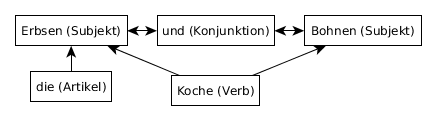
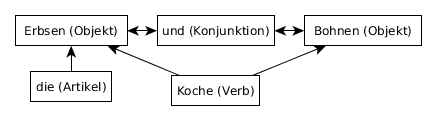
Feedback stefan part 2

Changed region(s): [[0.0297, 0.1983, 0.2975, 0.3223], [0.714, 0.1983, 0.9519, 0.3223]]

diff --git a/docs/Kommentare.html b/docs/Kommentare.html
@@ -57,7 +57,7 @@
                     <p>Nährwertangaben machen nur Sinn, wenn sie auf ein <b>Vergleichbares Maß</b> wie <i>pro Person</i> umgerechnet werden können. Ein Nudelsalat für 12 Personen wird insgesamt  mehr Kalorien haben, als ein fettiges 200g Steak. Bei Frau Davidis' Rezepten fehlt jedoch oft jegliche Angaben zu der angestrebten Portionen-Menge. Dementsprechend müsste diese geraten werden, was die Nährwertanalyse ungenau macht.
                     </p>
                     
-                    <p>Gleiches gilt für die einzelnen Mengenangaben der Zutaten. Zu einem müssen vage Mengenangabe wie <i>ein Stich Butter</i> interpretiert werden. Meine Oma versteht z.&thinsp;B. sicherlich mehr als die fünffache Menge Butter darunter als meine Freundin. Dies führt zu weitere Ungenauigkeiten bei der Nährwertanalyse. Zum anderen müssen historische Mengeneinheiten wie <i>ein Maß</i> oder <i>für 8 Pfennig Weißbrot</i> in heute übliche Einheiten umgerechnet werden, damit sie vergleichbar werden. Dafür ist historische Recherche nötig. Auch für manche Zutaten wie <i>ganzes Gewürz</i> sind weitere Recherchen nötig, was damit gemeint ist.
+                    <p>Gleiches gilt für die einzelnen Mengenangaben der Zutaten. Zu einem müssen vage Mengenangabe wie <i>ein Stich Butter</i> interpretiert werden. Meine Oma versteht z.&thinsp;B. sicherlich mehr als die fünffache Menge Butter darunter als meine Freundin. Dies führt zu weiteren Ungenauigkeiten bei der Nährwertanalyse. Zum anderen müssen historische Mengeneinheiten wie <i>ein Maß</i> oder <i>für 8 Pfennig Weißbrot</i> in heute übliche Einheiten umgerechnet werden, damit sie vergleichbar werden. Dafür ist historische Recherche nötig. Auch für manche Zutaten wie <i>ganzes Gewürz</i> sind weitere Recherchen nötig, was damit gemeint ist.
                     </p>
                     
                     <p>Weitere Schwierigkeiten bereitet die <b>schlechte Struktur von Frau Davidis' Kochbuch</b>. Manche Informationen sind in anderen Rezepten versteckt. Im Rezept <i>Rindfleischsuppe mit Perlgerste und Reis</i> steht z.&thinsp;B. <i>„Anmerk. Will man Reis oder Sago zur Suppe nehmen, so gibt man dieses später hinein. Man rechnet davon auf jede Person bei allen Fleischsuppen einen gestrichenen Eßlöffel voll“</i> <span cite="DavidisKochbuch" supplement=", S. 29" class="beforePunctuation"></span>. Zu allen Fleischsuppen gehört also als optionale Zutat pro Person ein Eßlöffel Reis oder Sago, was man nur wissen kann, wenn man dieses Rezept gelesen hat.
@@ -73,7 +73,7 @@
                         </li>
                         <li>Wie die Nährwertangaben einzelner Zutaten berechnet wird, ist im BLS bereits nicht transparent. Nach dem BLS haben z.&thinsp;B. <i>Nichtalkoholische Getränke</i> 47kcal/100g, 198kJ/100g, ... Da frage ich mich, wieso manche Leute aus Diät-Gründen auf Cola verzichten, wenn Wasser wie Cola als nicht alkoholisches Getränk doch die gleichen Nährwertangaben hat. Als anderes Beispiel steht in einer <a href="https://www.blsdb.de/assets/uploads/Kundeninformation_BLS_3.02_Stand_16-09-2016.pdf" title="Abgerufen 2017-02-22">Liste über derzeit bekannte Diskrepanzen in BLS - Version 3.02</a>: <i>„Der Fettgehalt von U661100 „Schwein Schulter (Bug) (ma) roh“ hat sich von Version II.3 zu 3.02 fast verdoppelt. Ursache: Bereits im Zuge des Updates für Version 3.0 wurde gegenüber Version II.3 ein aktuellerer Analysenwert übernommen. WICHTIG: Dabei handelt es sich nicht um einen Fehler.“</i> Daraus ergibt sich für mich keinerlei Transparenz, wie der BLS die Daten berechnet. Noch wirkt das auf mich sehr vertrauenerweckend, wenn eine Angabe, die um fast 100% korrigiert wurde, vorher nicht als falsch angesehen wird.
                         </li>
-                        <li>Ein Mapping Zwischen einer Zutat und dem BLS ist gar nicht so einfach, wie man denken mag. Zu <i>Hauskaninchen</i> hat der BLS z.&thinsp;B. 17 Einträge (Hauskaninchen gegart, Hauskaninchen roh, Hauskaninchen gekocht, ...). Dies ist ein allgemeines Problem, dass es nicht die perfekte Muster-Zutat gibt. Streng genommen hat auch jedes individuelles Hauskaninchen (roh, gekocht, ...) individuelle Nährwertangaben. Eine Verallgemeinerung erhöht jedoch die Übersichtlichkeit und somit auch die Nutzbarkeit.
+                        <li>Ein Mapping Zwischen einer Zutat und dem BLS ist gar nicht so einfach, wie man denken mag. Zu <i>Hauskaninchen</i> hat der BLS z.&thinsp;B. 17 Einträge (Hauskaninchen gegart, Hauskaninchen roh, Hauskaninchen gekocht, ...). Dies ist ein allgemeines Problem, dass es nicht die perfekte Muster-Zutat gibt. Streng genommen hat auch jedes individuelles Hauskaninchen (roh, gekocht, ...) individuelle Nährwertangaben. Eine kulinarische Analyse basierend auf Nährwertangaben kann im Allgemeinen nicht exakt sein, da selbst zwei benachtbart gewachsene Möhren aus dem selben Feld unterschiedliche Nährwertangaben haben. Eine Verallgemeinerung erhöht die Übersichtlichkeit und somit auch die Nutzbarkeit und Vergleichbarkeit.
                         </li>
                         <li>Die Struktur des BLS-Schlüssels lässt eine Taxonomy erahnen. Allerdings ist diese nicht konsequent eingehalten und auch nicht dokumentiert.
                         </li>
@@ -109,7 +109,7 @@
                     <p>Wie diese Arbeit zeigt, kann eine Abschluss-Arbeit auch als Webseite dargeboten werden. Abbildungen profitieren vom dem potenziell größeren Bildschirm als das feste A-4 Format. Auch sind interaktive Grafiken möglich. Des Weiteren können Webseiten zu Hause am PC, auf der Couch am Tablet oder unterwegs am Handy gelesen werden. Links auf einer Webseite zu folgen ist angenehmer, als sie über ein gedrucktes Literaturverzeichnis manuell aufzufinden. Über die URL ist die Arbeit leicht verteilbar und durch das Word Wide Web frei zugänglich und auffindbar. Durch eine schicke Webseite kann ein Thema auch (teilweise) dem Laien zugänglich gemacht werden.
                     </p>
                     
-                    <p>Ein weiterer Vorteil bietet die Integration eines Blogs in die Webseite. Seine Gedanken niederzuschreiben ist immer sinnvoll. Dies hilft die Gedanken zu ordnen und früh zu merken, wo sie noch nicht stimmen. Der Blog bietet auch eine gute Plattform zum Austausch von Informationen. Der betreuende Professor ist nach dem Lesen stets im Bilde, was der Student erarbeitet hat. Unter die Blog-Einträge kann er dann ggf. sofort Feedback geben. So ist ein aneinander vorbeireden quasi unmöglich. Über den Blog können auch andere Wissenschaftler Feedback geben und ihre Erkenntnisse teilen. 
+                    <p>Ein weiterer Vorteil bietet die Integration eines Blogs in die Webseite. Seine Gedanken niederzuschreiben ist immer sinnvoll. Dies hilft die Gedanken zu ordnen und früh zu merken, wo sie noch nicht stimmen. Der Blog bietet auch eine gute Plattform zum Austausch von Informationen. Der betreuende Professor ist nach dem Lesen stets im Bilde, was der Student erarbeitet hat. Unter die Blog-Einträge kann er dann ggf. sofort Feedback geben. So ist ein aneinander vorbeireden unwahrscheinlich und die stattgefundene Kommunikation ist später noch nachvollziehbar. Über den Blog können auch andere Wissenschaftler Feedback geben und ihre Erkenntnisse teilen. 
                     </p>
                     
                     <p>Meiner Meinung nach hätten mich also bereits 2014 alle fragen sollen <b>wieso schreibst du keine <i>Webseite</i> für deine Abschluss-Arbeit?</b> Unten stehend noch eine schöne Karikatur von einer schicken, aufgeräumten und vernetzten Webseite vs. einer verstauben, gebundenen Abschluss-Arbeit.
@@ -153,7 +153,7 @@
                     <p>Ein sehr aktuelles Beispiel ist die Diskussion, in wie weit <i>Fake News</i> öffentliche Meinungen und Wahlen beeinflussen (<a href="https://www.nytimes.com/2016/11/18/technology/fake-news-on-facebook-in-foreign-elections-thats-not-new.html?_r=1" title="Abgerufen 2017-02-19">s. z.&thinsp;B. hier</a>). Ich persönlich denke, dass die Methodik der bewusst falschen Informationen zum eigenen Vorteil kein neues Phänomen ist. Ich behaupte, dass es bereits seit dem Bestehen von Zeitungen Zeitungsenten gibt, um die Verkaufszahlen der Zeitung in die Höhe zu treiben. In den beiden Weltkriegen hat man kritische wie auch ausländische Presse oft als <i>Lügenpresse</i> angeprangert (ein Begriff der traurigerweise aktuell wieder im Umlauf ist). Die Amerikaner sind 2003 in den Irak einmarschiert mit der Begründung, dass der damalige Diktator Saddam Hussein Massen&shy;vernichtungs&shy;waffen besitzt, was sich im Nachhinein als eine Lüge herausgestellt hat. Erst kürzlich wurden die im Baltikum stationierten Bundeswehr&shy;truppen fälschlicherweise einer Vergewaltigung beschuldigt, um die Toleranz ihnen gegenüber zu vermindern (<a href="http://www.spiegel.de/politik/ausland/bundeswehr-fake-news-attacke-gegen-deutsche-soldaten-in-litauen-a-1134925.html" title="Abgerufen 2017-02-16">s. z.&thinsp;B. hier</a>). All dies verdeutlicht die Macht von Informationen / Nachrichten / (falschem) Wissen. Was meiner Meinung nach neu ist, ist dass durch das Internet quasi jeder, anonym und ohne Zeitverzögerung ein großes Publikum erreichen (und auch belügen) kann.
                     </p>
                     
-                    <p>Ein weiteres Beispiel ist die bloße Existenz von Geheimdiensten, deren einziger Zweck es ist, Informationen zu beschaffen. So  war z.&thinsp;B. in den Medien, dass der russische Geheimdienst Material gesammelt hat, um den aktuellen amerikanischen Präsidenten Donald Trump zu erpressen (<a href="https://www.nytimes.com/2017/01/10/us/politics/donald-trump-russia-intelligence.html" titel="Abgerufen 2017-02-19">s. z.&thinsp;B. hier</a>). <i>„Knowledge is power and it can command obedience“</i> lässt grüßen. Seit 2002 bis vielleicht sogar heute, wird auch von den amerikanischen Geheimdiensten das Handy des deutschen Bundeskanzlers abgehört (<a href="http://www.spiegel.de/politik/deutschland/handy-der-kanzlerin-die-wichtigsten-fakten-der-abhoeraffaere-a-930411.html">s. z.&thinsp;B. hier</a>). Nur ein Schelm (wie ich) würde behaupten, dass das etwas mit <i>mangelnden command obedience</i> von dem damaligen Bundeskanzler Gerhard Schröder, den Amerikanern in den Irak-Krieg zu folgen, zu tun haben könnte. 
+                    <p>Ein weiteres Beispiel ist die bloße Existenz von Geheimdiensten, zu deren Hauptaufgabe es gehört, Informationen zu beschaffen. So war z.&thinsp;B. in den Medien, dass der russische Geheimdienst Material gesammelt hat, um den aktuellen amerikanischen Präsidenten Donald Trump zu erpressen (<a href="https://www.nytimes.com/2017/01/10/us/politics/donald-trump-russia-intelligence.html" titel="Abgerufen 2017-02-19">s. z.&thinsp;B. hier</a>). <i>„Knowledge is power and it can command obedience“</i> lässt grüßen. Seit 2002 bis vielleicht sogar heute, wird auch von den amerikanischen Geheimdiensten das Handy des deutschen Bundeskanzlers abgehört (<a href="http://www.spiegel.de/politik/deutschland/handy-der-kanzlerin-die-wichtigsten-fakten-der-abhoeraffaere-a-930411.html">s. z.&thinsp;B. hier</a>). Nur ein Schelm (wie ich) würde behaupten, dass das etwas mit <i>mangelnden command obedience</i> von dem damaligen Bundeskanzler Gerhard Schröder, den Amerikanern in den Irak-Krieg zu folgen, zu tun haben könnte. 
                     </p>
                     
                     <p>In der Koch-Domäne die Macht des Wissens zu diskutieren, mag vielleicht übertrieben sein. Ich bin jedoch der Meinung, dass es nie falsch ist, das Thema zu diskutieren. Daher möchte ich diese kleine Abschweifung mit einem kurzen Gedankenspiel beenden. Dieses soll zeigen, wie selbst Wissen, welches durch unser cueML-Vokabular zugreifbar geworden ist, Macht ausüben könnte. Stellen Sie sich vor, es sind Wahlen und Sie wollen natürlich zukünftig einen gesunden BundeskanzlerIn haben. Nun lesen Sie in der Zeitung, dass jemand den Internet-Verkehr ihres Kandidaten mitgeschnitten hat. Seit zwei Monaten öffnet er verstärkt Rezepte, die diese X Nährstoffe meiden. Wie Ihnen jeder Arzt bestätigen kann, macht es Sinn diese Nährstoffe zu meiden, wenn man Bauchspeicheldrüsenkrebs hat. Der Artikel kommt also zu dem Ergebnis, dass der Kandidat schwer krank ist. Der Kandidat selber weigert sich jedoch aus Prinzip, seine Kranken-Akte wegen einer so lächerlichen Anschuldigung öffentlich zu machen, da damit viele private Informationen verbunden sind. Denken Sie, dass dieses Szenario ihre Wahlentscheidung oder die von anderen beeinflussen würde? Der Gesundheitszustand von Hillary Clinton war auf jeden Fall ein Thema im amerikanischen Wahlkampf 2016, aufgebauscht durch einen kleinen Schwächeanfall von ihr und ihrer Weigerung ihre Kranken-Akte zu veröffentlichen <a href="https://www.washingtonpost.com/news/the-fix/wp/2016/09/11/hillary-clintons-health-just-became-a-real-issue-in-the-presidential-campaign/?utm_term=.51193e9f8e0d" title="Abgerufen 2016-11-02">(s. z.&thinsp;B. hier)</a>.

diff --git a/docs/IEKochDomain.html b/docs/IEKochDomain.html
@@ -73,6 +73,7 @@
                     </div>
                     
                     
+                
                     
                     <h2 id="CRFBased" class="myAnchorWithFixedheader">Conditional Random Field-based</h2>
                     <p>Die New York Times (NYT) betreibt eine eigene <a href="https://cooking.nytimes.com/" title="https://cooking.nytimes.com/">Kochseite</a>. Greene behauptet, dass sie mittels Linear-chain Conditional Random Fields (CRF) in der Lage sind <i>„automatisch den unstrukturierten Text von Rezepten in strukturierte Daten umzuwandeln“</i> <span cite="CRFNYT"></span>. Dies beinhaltet insbesondere das Extrahieren der Zutaten mit ihren Mengenangaben und Einheiten. Da diese Behauptung genau unserer Problemstellung entspricht, stellen wir zunächst die Idee von CRF vor und gehen anschließend auf die Implementierung von Greene ein.
@@ -85,12 +86,12 @@
                     <p>Jetzt stellt sich nur noch die Frage, woher man so ein Orakel bekommt. Folgend erläutern wir die Idee, wie so ein Orakel antrainiert werden kann. Eine detaillierte Einführung ist in <span cite="CRFIntroduction"></span> zu finden. Wir fangen damit an, dass wir dem Orakel eine Reihe von Wort-Vektoren geben und ihm für diese bereits die passenden Antworten von Label-Vektoren mitgeben. Solch eine Menge von Wort- und zugehörenden Label-Vektoren werden auch <i>Trainingsdaten</i> genannt. Fragen wir es nun nach den Labels von einen dieser Wort-Vektoren, könnte es uns einfach den zugehörenden Label-Vektor orakeln.
                     </p>
                     
-                    <p>Spannend ist die Frage, wie es Labels für Wort-Vektoren rät, von denen es die Lösung nicht kennt. Dafür leitet es zunächst aus den Trainingsdaten eine multivariate  Wahrscheinlichkeits&shy;verteilung \( p(X,Y) \) ab, die angibt, wie wahrscheinlich zu einem Wort-Vektor \( X \) ein Label-Vektor \( Y \) gehört. Wenn wir jetzt vereinfacht davon ausgehen, dass jedes Label \( y_i \in Y \) nur vom vorherigen Label \( y_{i-1} \in Y \) und dem entsprechenden Wort \( x_i \in X \) abhängt, ergibt sich Formel (1).
+                    <p>Spannend ist die Frage, wie es Labels für Wort-Vektoren rät, von denen es die Lösung nicht kennt. Dafür leitet es zunächst aus den Trainingsdaten eine multivariate  Wahrscheinlichkeits&shy;verteilung \( p(X,Y) \) ab, die angibt, wie wahrscheinlich zu einem Wort-Vektor \( X \) ein Label-Vektor \( Y \) gehört. Wenn wir jetzt von dem <i>vereinfachtem Modell</i> ausgehen, dass jedes Label \( y_i \in Y \) nur vom vorherigen Label \( y_{i-1} \in Y \) und dem entsprechenden Wort \( x_i \in X \) abhängt, ergibt sich Formel (1).
                     </p>
                     
                     \begin{equation} \boldsymbol{ p(X,Y) = \prod_{t=1}^{\#X} p(y_t|y_{t-1}) * p(y_t|x_t) } \end{equation}
                     
-                    <p>Wahrscheinlichkeiten der Form von (1) können immer in die Form von Formel (2) überführt werden. \( 1_{Bedingung} \) ist dabei eine Funktion, die genau dann Eins ist, wenn die Bedingung erfüllt ist und ansonsten Null. Je öfter \( y_t=i \) und \( y_{t-1}=j \) gemeinsam in der Verteilung vorkommen, desto größer wird \( \Theta_ {i,j} \) sein. Kommen \( y_t=i \) und \( y_{t-1}=j \) gar nicht gemeinsam vor, gilt \( \Theta_{i,j} * 1_{y_t=i} * 1_{y_{t-1}=j} = 0 \). Gleiches gilt für \( y_t=i \), \( x_t=o \) und \( \mu_{i,o} \). Die Thetas werden auch als <i>Gewichte</i> bezeichnet. \( Z \) bildet die Summe der Werte für alle möglichen Vorkommen von \( X \) und \( Y \). Nach der Division durch \( Z \) ist somit sichergestellt, dass Formel (2) zwischen \( 0 \) und \( 1 \) liegt, sowie dass die Summe über alle möglichen Wahrscheinlichkeiten \( 1 \) ist, wie es für eine Wahrscheinlichkeitsverteilung der Fall sein muss. Die Berechnung von \( Z \) ist sehr Ressourcen-intensiv, selbst wenn die maximale Dimension von \( X^* \) und \( Y^* \) beschränkt wird. 
+                    <p>Wahrscheinlichkeiten der Form von (1) können immer in die Form von Formel (2) überführt werden. \( 1_{Bedingung} \) ist dabei eine Funktion, die genau dann Eins ist, wenn die Bedingung erfüllt ist und ansonsten Null. Je öfter \( y_t=i \) und \( y_{t-1}=j \) gemeinsam in der Verteilung vorkommen, desto größer wird \( \Theta_ {i,j} \) sein. Kommen \( y_t=i \) und \( y_{t-1}=j \) gar nicht gemeinsam vor, gilt \( \Theta_{i,j} * 1_{y_t=i} * 1_{y_{t-1}=j} = 0 \). Gleiches gilt für \( y_t=i \), \( x_t=o \) und \( \mu_{i,o} \). Die Thetas werden auch als <i>Gewichte</i> bezeichnet. \( Z \) bildet die Summe der Werte für alle möglichen Vorkommen von \( X \) und \( Y \). Nach der Division durch \( Z \) ist somit sichergestellt, dass Formel (2) zwischen \( 0 \) und \( 1 \) liegt, sowie dass die Summe über alle möglichen Wahrscheinlichkeiten \( 1 \) ist, wie es für eine Wahrscheinlichkeitsverteilung der Fall sein muss. Die Berechnung von \( Z \) ist sehr Ressourcen-intensiv, selbst wenn die maximale Länge von \( X^* \) und \( Y^* \) beschränkt wird. 
                     </p> 
                     
                     \begin{align}
@@ -247,7 +248,7 @@
                         
                         <div class="row">
                             <div class="col-md-6">
-                                <p>Der zweite Ansatz basiert auf <b>dependency-based parsing</b>. Abb. 8 zeigt ein exemplarisches Ergebnis eines dependency-based parsings des Satzes <i>Koche die Erbsen und Bohnen</i>. Aus diesem wird sofort ersichtlich, dass sich das Verb <i>kochen</i> auf die Subjekte <i>Erbsen</i> und <i>Bohnen</i> bezieht. Das dependency-based parsing kann von Bibliotheken wie dem <a href="http://nlp.stanford.edu/software/lex-parser.shtml">Stanford Parser</a> erledigt werden.
+                                <p>Der zweite Ansatz basiert auf <b>dependency-based parsing</b>. Abb. 8 zeigt ein exemplarisches Ergebnis eines dependency-based parsings des Satzes <i>Koche die Erbsen und Bohnen</i>. Aus diesem wird sofort ersichtlich, dass sich das Verb <i>kochen</i> auf die Objekte <i>Erbsen</i> und <i>Bohnen</i> bezieht. Das dependency-based parsing kann von Bibliotheken wie dem <a href="http://nlp.stanford.edu/software/lex-parser.shtml">Stanford Parser</a> erledigt werden.
                                 </p>
                             </div>
                             

diff --git a/docs/AutomatischesAuszeichnenCueML.html b/docs/AutomatischesAuszeichnenCueML.html
@@ -237,7 +237,7 @@
                     <p>Das Python-Script <i>cueML2Json.py</i> parst die cueML Rezepte in ein <i>JSON-Objekt</i>, welches von einer Webseite ausgelesen werden kann. In der oberen Navigationsleitste im Menüpunkt <a href="Rezepte.html" title="Zu den in HTML transofrmierten Rezepten">Rezepte</a> sind aufbauend auf dem von cueML2Json.py erstellten JSON-Objekt die in HTML transformierten Rezepte von Frau Davidis  zu finden. Da unser Prototyp noch ausschließlich die Zutaten mit ihren Mengenangaben und Mengeneinheiten auszeichnet, kann die Transformation auch nur diese Entities berücksichtigen. Daher enthält die Webseite beispielsweise keine Verweise zwischen den Rezepten. 
                     </p>
                     
-                    <p>Eine andere Möglichkeit die mit cueML ausgezeichneten Rezepte in HTML zu transformieren ist mittels <i>XSLT</i>. Während meiner SHK-Tätigkeit habe ich die mit dem experimentellen cueML ausgezeichneten Rezepte mittels XSLT in HTML umgewandelt. Dies hat den Nachteil, dass die Erstellung der Navigationsbar für die Rezepte schwieriger ist, da nicht alle Rezepte in einem Objekt gekapselt sind. Da das Auszeichnen mit dem experimentelle cueML manuell erfoglte, wurden dort auch alle Entities wie beispielsweise Zubereitungszeiten oder Verweise auf andere Rezepte ausgezeichnet. Als Beispiel wie alle Entites von cueML in HTML dargestellt werden können, sei daher <a href="https://git.informatik.uni-kiel.de/nl/Culinary_Analysis/tree/master/Webseite/html">hier</a> auf die Transformation des experimentellen cueMLs mittels XSLT verlinkt. Da sich das experimentelle cueML sehr von der aktuelen Version unterschiedet, ist eine Anpassung des Scripts jedoch leider aufwendig.
+                    <p>Eine andere Möglichkeit die mit cueML ausgezeichneten Rezepte in HTML zu transformieren ist mittels <i>XSLT</i>. Während meiner SHK-Tätigkeit habe ich die mit dem experimentellen cueML ausgezeichneten Rezepte mittels XSLT in HTML umgewandelt. Dies hat den Nachteil, dass die Erstellung der Navigationsbar für die Rezepte schwieriger ist, da nicht alle Rezepte in einem Objekt gekapselt sind. Da das Auszeichnen mit dem experimentelle cueML manuell erfoglte, wurden dort alle Entities wie beispielsweise Zubereitungszeiten oder Verweise auf andere Rezepte ausgezeichnet. Als Beispiel wie alle Entites von cueML in HTML dargestellt werden können, sei daher <a href="https://git.informatik.uni-kiel.de/nl/Culinary_Analysis/tree/master/Webseite/html">hier</a> auf die Transformation des experimentellen cueMLs mittels XSLT verlinkt. Da sich das experimentelle cueML sehr von der aktuellen Version unterschiedet, ist eine Anpassung des Scripts jedoch leider aufwendig.
                     </p>
                     
                 </div>

diff --git a/docs/ZusammenfassungUndAusblick.html b/docs/ZusammenfassungUndAusblick.html
@@ -54,9 +54,9 @@
                         </li>
                         <li>Eine weitere Differenzierung von Zutaten in <i>Beilagen</i> erscheint uns sinnvoll. Ansonsten würden z.&thinsp;B. beim Rezept <i>„Schmalz- oder Butterkohl“</i> aufgrund von <i>„Beilagen: Schinken, Rauchfleisch, Bratwurst.“</i> Bratwurst als Zutat in der Zutatenliste auftauchen. 
                         </li>
-                        <li>Verbesserung der rule-based Weiterverarbeitung des <a href="AutomatischesAuszeichnenCueML.html#Dictbased">dictionary- and rule-based Prototypen</a>.
+                        <li>Verbesserung bzw. hinzufügen von weiteren Regeln in der rule-based Weiterverarbeitung des <a href="AutomatischesAuszeichnenCueML.html#Dictbased">dictionary- and rule-based Prototypen</a>. Um die durch Regeln extrahierten Informationen nachvollziehen zu können, falls beispielsweise fehlerhafte Informationen extrahiert wurden, sollte die Historie von angewendeten Regeln transparent sein. Diese sollten nicht in der Auszeichnungssprache cueML integriert werden, sondern als Debugging-Informationen dem Software-Entwickler verfügbar gemacht werden.
                         </li>
-                        <li>Das Finden bzw. Aufbauen eines allgemeinen Zutaten-Wörterbuches; idealerweise als weltweit frei verfügbare, eindeutige Ressource, mit Nährwertangaben.
+                        <li>Das Finden bzw. das Aufbauen eines allgemeinen Zutaten-Wörterbuches; idealerweise als weltweit frei verfügbare, eindeutige Ressource, mit Nährwertangaben.
                         </li>
                         <li>Veröffentlichen und verbreiten von cueML.
                         </li>
